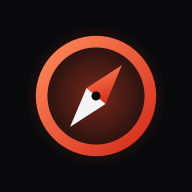
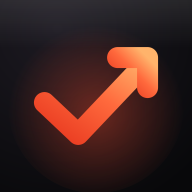
Rumbo 1.6: nuevo ícono

diff --git a/index.html b/index.html
@@ -850,7 +850,7 @@ function renderOb(){
     (s > 0 ? '<div class="bar"><u style="width:'+Math.round(s/total*100)+'%"></u></div><span class="count">'+s+' de '+(total-1)+'</span>' : '')+'</div>';
   let h = '';
   if (s === 0){
-    h = '<div class="hero-logo st"><svg class="i" viewBox="0 0 24 24"><circle cx="12" cy="12" r="9"/><path d="M15.5 8.5l-2 5-5 2 2-5z"/></svg></div>'+
+    h = '<div class="hero-logo st"><svg class="i" viewBox="0 0 24 24" style="stroke-width:2.8"><path d="M4.5 12.5l4.5 4.5L19 7"/><path d="M14.5 6.5H19.5V11.5"/></svg></div>'+
       '<h1 class="st">Tu día,<br>en orden.</h1><p class="lead st">Dile a Rumbo lo que haces y te arma tu semana en un minuto. Después te avisa antes de cada cosa.</p>'+
       '<div class="welcome st">'+[['gym','Gym','Pierna','07:00'],['clase','Clases','Cálculo · Aula 204','13:00'],['trabajo','Trabajo','3 prioridades','17:00']].map(([t,ti,su,tm]) => { const f = fmtT(tm);
         return '<div class="row glass t-'+t+'"><div class="main"><span class="tm">'+f.t+'<small>'+f.P+'</small></span>'+icBox(t)+'<span class="txt"><b>'+ti+'</b><span>'+su+'</span></span></div><span class="tick"><span></span></span></div>'; }).join('')+'</div>'+

diff --git a/sw.js b/sw.js
@@ -1,4 +1,4 @@
-const CACHE = 'rumbo-v6';
+const CACHE = 'rumbo-v7';
 const CORE = ['./', './index.html', './manifest.webmanifest', './icons/icon-192.png', './icons/apple-touch-icon.png', './fonts/inter.woff2', './img/gym.png', './img/clase.png', './img/trabajo.png', './img/estudio.png', './img/leer.png', './img/correr.png', './img/meditar.png', './img/proyecto.png', './img/despertar.png', './img/dormir.png', './img/otro.png'];
 self.addEventListener('install', e => { e.waitUntil(caches.open(CACHE).then(c => c.addAll(CORE))); self.skipWaiting(); });
 self.addEventListener('activate', e => { e.waitUntil(caches.keys().then(ks => Promise.all(ks.filter(k => k !== CACHE).map(k => caches.delete(k))))); self.clients.claim(); });
